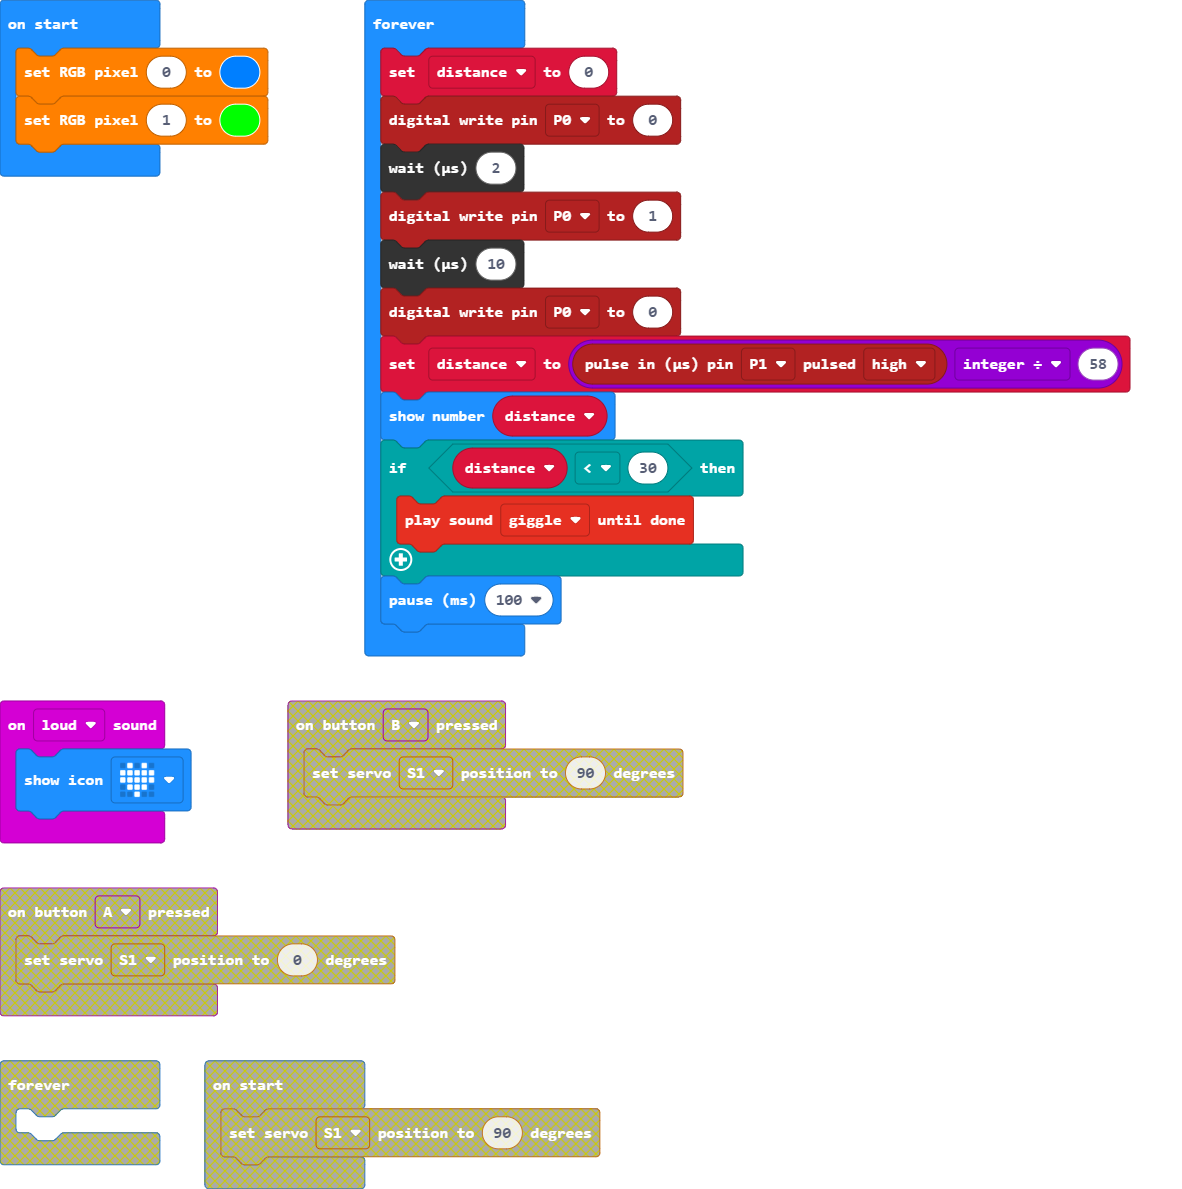
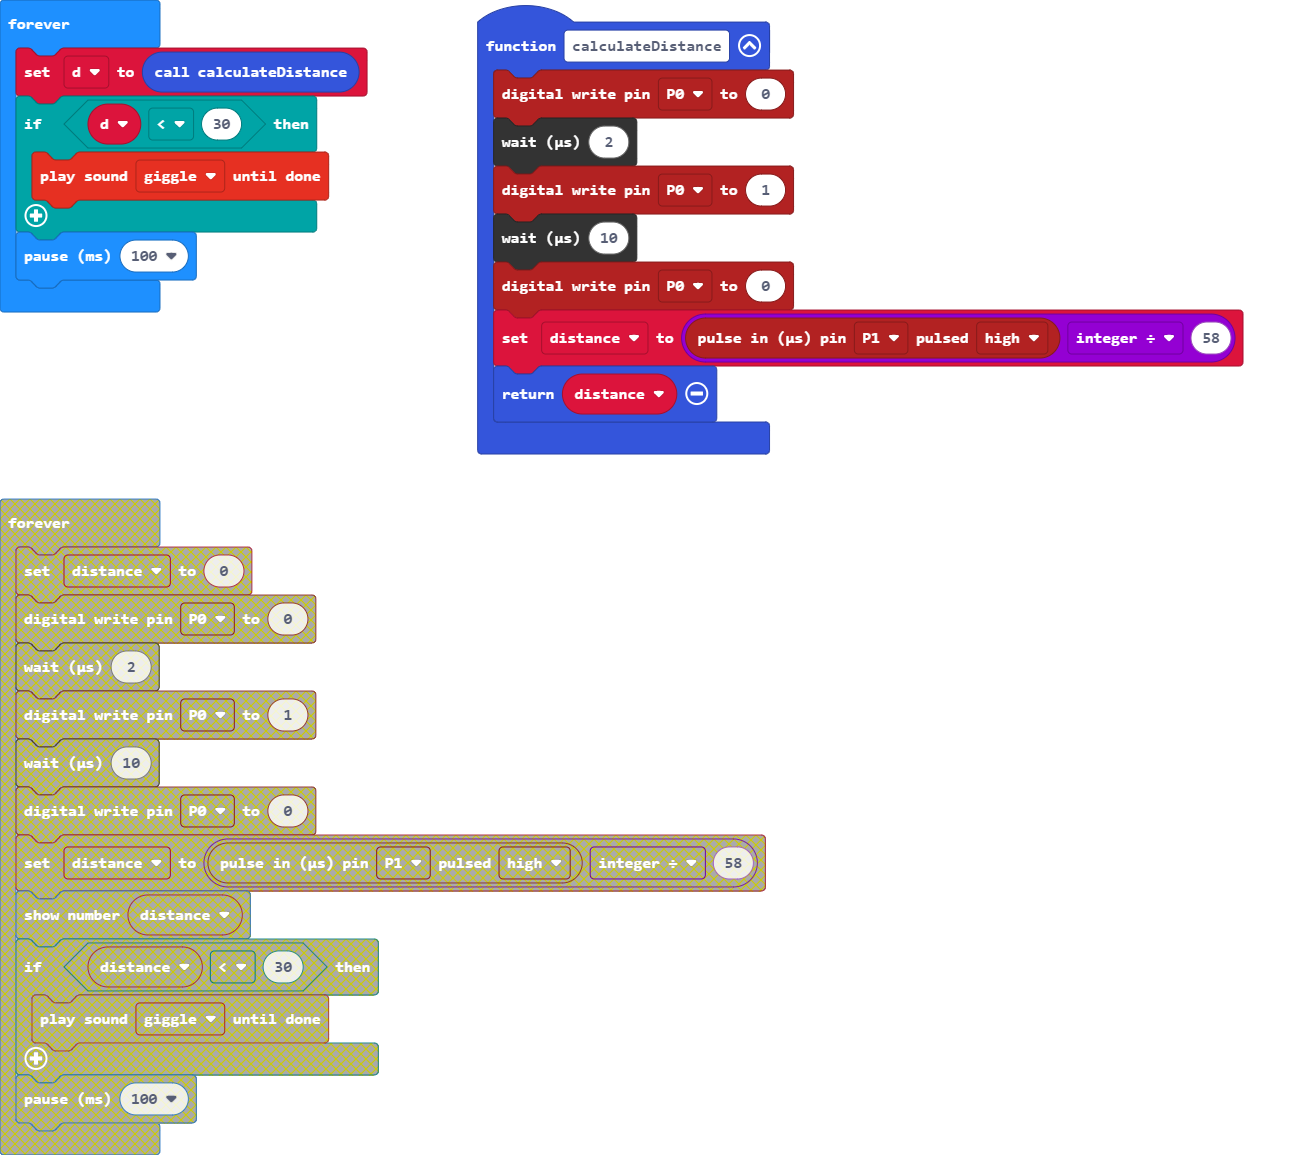
function

diff --git a/main.ts b/main.ts
@@ -1,19 +1,22 @@
 input.onSound(DetectedSound.Loud, function () {
     basic.showIcon(IconNames.Heart)
 })
-let distance = 0
-rekabit.setRgbPixelColor(0, 0x007fff)
-rekabit.setRgbPixelColor(1, 0x00ff00)
-basic.forever(function () {
-    distance = 0
+function calculateDistance () {
     pins.digitalWritePin(DigitalPin.P0, 0)
     control.waitMicros(2)
     pins.digitalWritePin(DigitalPin.P0, 1)
     control.waitMicros(10)
     pins.digitalWritePin(DigitalPin.P0, 0)
     distance = Math.idiv(pins.pulseIn(DigitalPin.P1, PulseValue.High), 58)
-    basic.showNumber(distance)
-    if (distance < 30) {
+    return distance
+}
+let d = 0
+let distance = 0
+rekabit.setRgbPixelColor(0, 0x007fff)
+rekabit.setRgbPixelColor(1, 0x00ff00)
+basic.forever(function () {
+    d = calculateDistance()
+    if (d < 30) {
         soundExpression.giggle.playUntilDone()
     }
     basic.pause(100)
